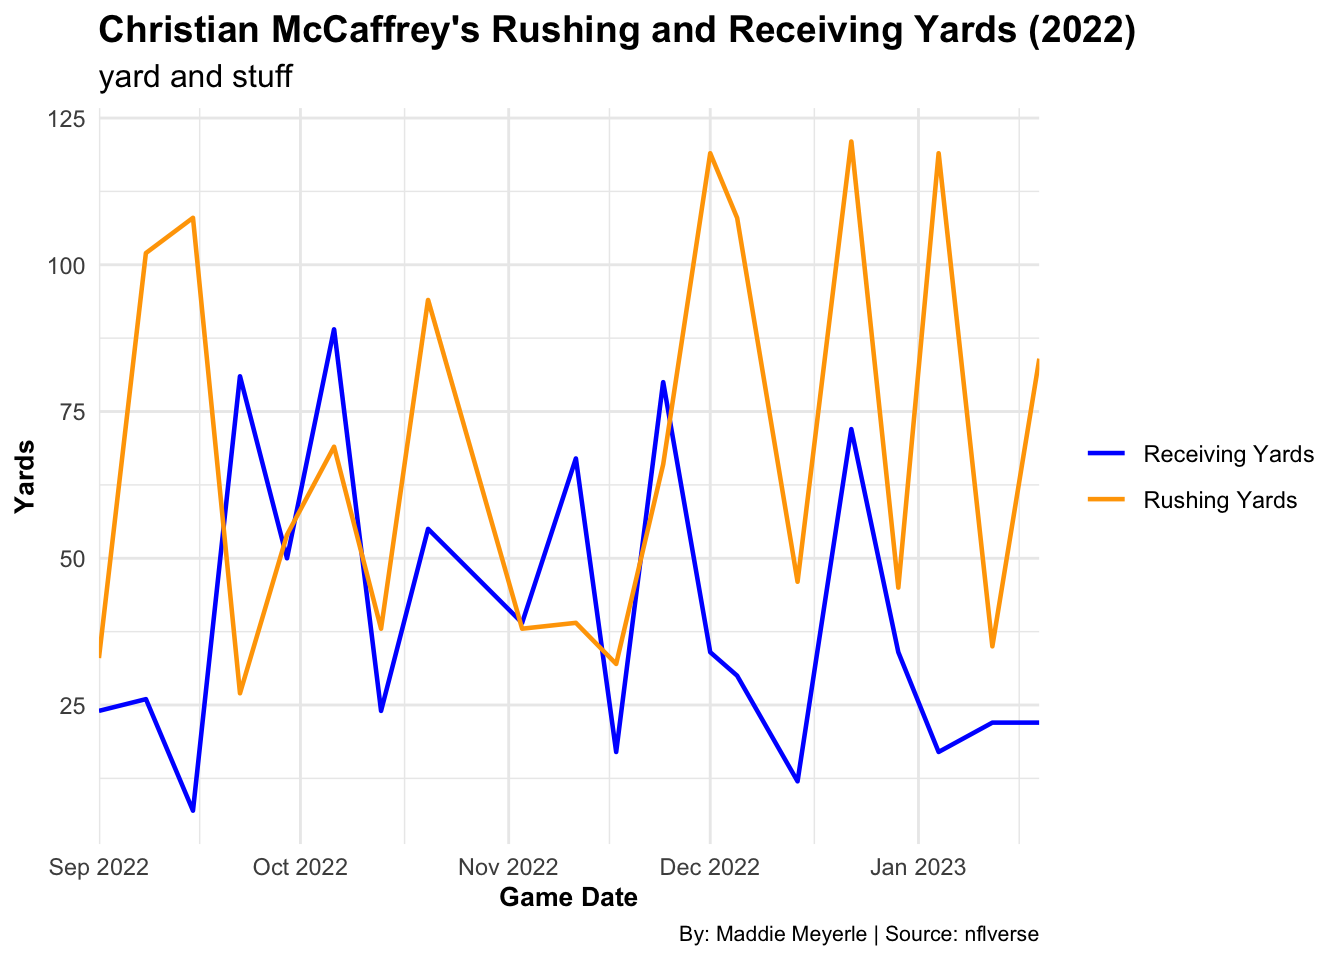
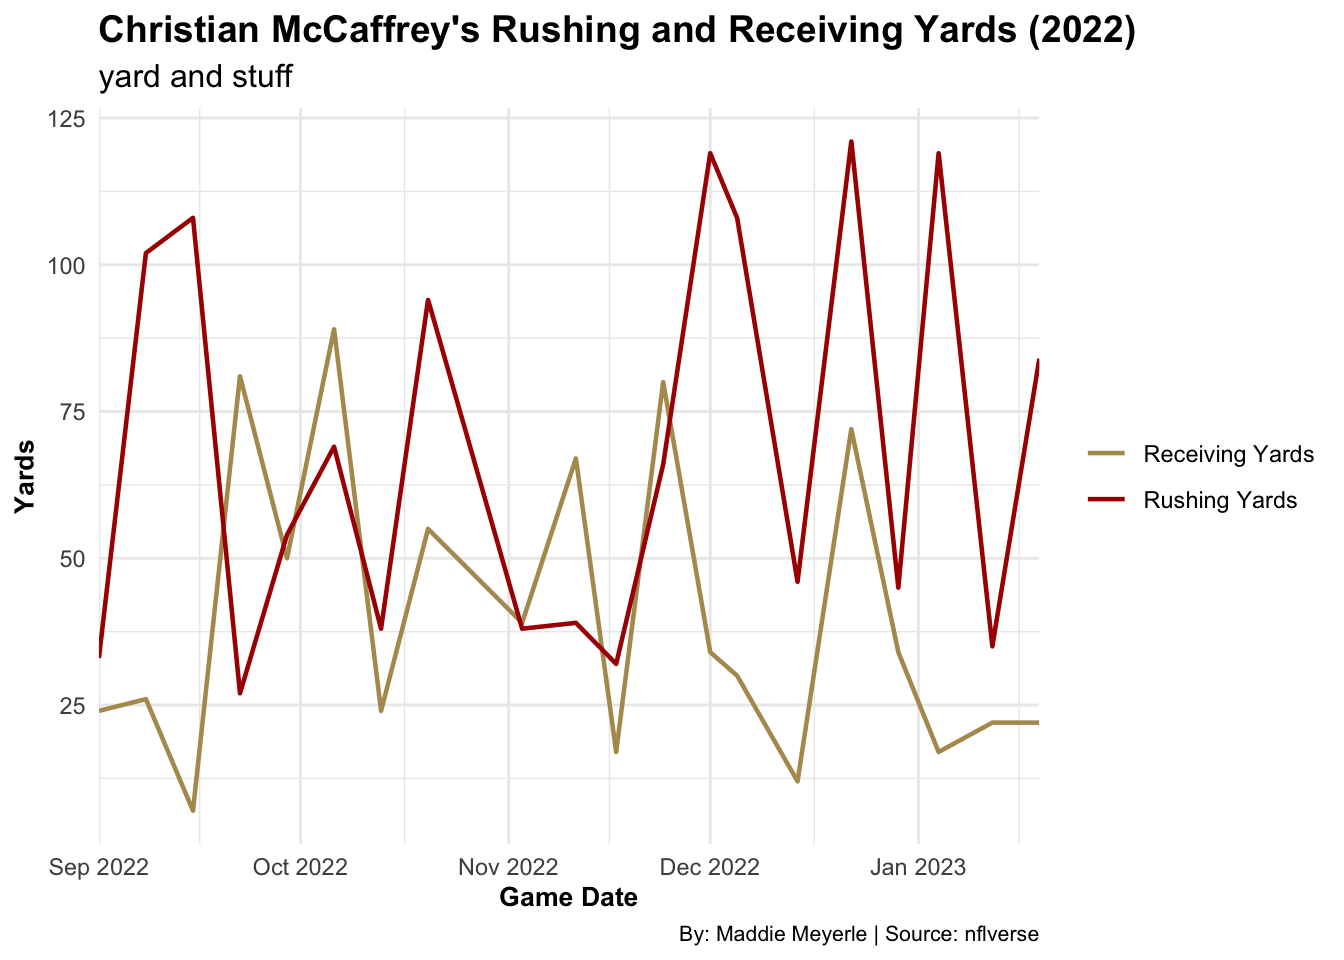
post

diff --git a/posts/christian-mccaffrey-analysis/index.html b/posts/christian-mccaffrey-analysis/index.html
@@ -255,7 +255,7 @@ Attaching package: 'dplyr'</code></pre>
 <span id="cb5-27"><a href="#cb5-27" aria-hidden="true" tabindex="-1"></a>    <span class="at">x =</span> <span class="st">"Game Date"</span>,</span>
 <span id="cb5-28"><a href="#cb5-28" aria-hidden="true" tabindex="-1"></a>    <span class="at">y =</span> <span class="st">"Yards"</span>,</span>
 <span id="cb5-29"><a href="#cb5-29" aria-hidden="true" tabindex="-1"></a>    <span class="at">color =</span> <span class="st">"Yard Type"</span>) <span class="sc">+</span></span>
-<span id="cb5-30"><a href="#cb5-30" aria-hidden="true" tabindex="-1"></a>  <span class="fu">scale_color_manual</span>(<span class="at">values =</span> <span class="fu">c</span>(<span class="st">"receiving_yards"</span> <span class="ot">=</span> <span class="st">"blue"</span>, <span class="st">"rushing_yards"</span> <span class="ot">=</span> <span class="st">"orange"</span>),</span>
+<span id="cb5-30"><a href="#cb5-30" aria-hidden="true" tabindex="-1"></a>  <span class="fu">scale_color_manual</span>(<span class="at">values =</span> <span class="fu">c</span>(<span class="st">"receiving_yards"</span> <span class="ot">=</span> <span class="st">"#B3995D"</span>, <span class="st">"rushing_yards"</span> <span class="ot">=</span> <span class="st">"#AA0000"</span>),</span>
 <span id="cb5-31"><a href="#cb5-31" aria-hidden="true" tabindex="-1"></a>                     <span class="at">labels =</span> <span class="fu">c</span>(<span class="st">"Receiving Yards"</span>, <span class="st">"Rushing Yards"</span>)) <span class="sc">+</span></span>
 <span id="cb5-32"><a href="#cb5-32" aria-hidden="true" tabindex="-1"></a>  <span class="fu">scale_x_date</span>(<span class="at">breaks =</span> date_seq, <span class="at">date_labels =</span> <span class="st">"%b %Y"</span>, <span class="at">expand =</span> <span class="fu">c</span>(<span class="dv">0</span>, <span class="dv">0</span>)) <span class="sc">+</span></span>
 <span id="cb5-33"><a href="#cb5-33" aria-hidden="true" tabindex="-1"></a>  <span class="fu">theme_minimal</span>() <span class="sc">+</span></span>
@@ -309,7 +309,7 @@ Attaching package: 'dplyr'</code></pre>
 <span id="cb7-23"><a href="#cb7-23" aria-hidden="true" tabindex="-1"></a>  <span class="fu">waffle</span>(</span>
 <span id="cb7-24"><a href="#cb7-24" aria-hidden="true" tabindex="-1"></a>    before <span class="sc">/</span> <span class="dv">25</span>, </span>
 <span id="cb7-25"><a href="#cb7-25" aria-hidden="true" tabindex="-1"></a>    <span class="at">rows =</span> <span class="dv">5</span>, </span>
-<span id="cb7-26"><a href="#cb7-26" aria-hidden="true" tabindex="-1"></a>    <span class="at">colors =</span> <span class="fu">c</span>(<span class="st">"red"</span>, <span class="st">"black"</span>)</span>
+<span id="cb7-26"><a href="#cb7-26" aria-hidden="true" tabindex="-1"></a>    <span class="at">colors =</span> <span class="fu">c</span>(<span class="st">"#AA0000"</span>, <span class="st">"black"</span>)</span>
 <span id="cb7-27"><a href="#cb7-27" aria-hidden="true" tabindex="-1"></a>  ) <span class="sc">+</span></span>
 <span id="cb7-28"><a href="#cb7-28" aria-hidden="true" tabindex="-1"></a>    <span class="fu">labs</span>(</span>
 <span id="cb7-29"><a href="#cb7-29" aria-hidden="true" tabindex="-1"></a>      <span class="at">title =</span> <span class="st">"Nebraska's offense is balanced"</span>,</span>
@@ -323,7 +323,7 @@ Attaching package: 'dplyr'</code></pre>
 <span id="cb7-37"><a href="#cb7-37" aria-hidden="true" tabindex="-1"></a>  <span class="fu">waffle</span>(</span>
 <span id="cb7-38"><a href="#cb7-38" aria-hidden="true" tabindex="-1"></a>    after <span class="sc">/</span> <span class="dv">25</span>, </span>
 <span id="cb7-39"><a href="#cb7-39" aria-hidden="true" tabindex="-1"></a>    <span class="at">rows =</span> <span class="dv">12</span>, </span>
-<span id="cb7-40"><a href="#cb7-40" aria-hidden="true" tabindex="-1"></a>    <span class="at">colors =</span> <span class="fu">c</span>(<span class="st">"#CFB991"</span>, <span class="st">"#000000"</span>, <span class="st">"white"</span>)</span>
+<span id="cb7-40"><a href="#cb7-40" aria-hidden="true" tabindex="-1"></a>    <span class="at">colors =</span> <span class="fu">c</span>(<span class="st">"#B3995D"</span>, <span class="st">"#000000"</span>, <span class="st">"white"</span>)</span>
 <span id="cb7-41"><a href="#cb7-41" aria-hidden="true" tabindex="-1"></a>  ) <span class="sc">+</span></span>
 <span id="cb7-42"><a href="#cb7-42" aria-hidden="true" tabindex="-1"></a>    <span class="fu">labs</span>(</span>
 <span id="cb7-43"><a href="#cb7-43" aria-hidden="true" tabindex="-1"></a>      <span class="at">x =</span> <span class="st">"1 square = 25 yards"</span>,</span>
@@ -339,7 +339,7 @@ Attaching package: 'dplyr'</code></pre>
 </div>
 </div>
 </div>
-<p>text</p>
+<p>text..</p>
 <div class="cell">
 <details class="code-fold">
 <summary>Code</summary>
@@ -416,7 +416,7 @@ Specify the column types or set `show_col_types = FALSE` to quiet this message.
 <span id="cb12-26"><a href="#cb12-26" aria-hidden="true" tabindex="-1"></a>    <span class="at">y =</span> <span class="st">"Yards"</span>,</span>
 <span id="cb12-27"><a href="#cb12-27" aria-hidden="true" tabindex="-1"></a>    <span class="at">fill =</span> <span class="st">"Yard Type"</span></span>
 <span id="cb12-28"><a href="#cb12-28" aria-hidden="true" tabindex="-1"></a>  ) <span class="sc">+</span></span>
-<span id="cb12-29"><a href="#cb12-29" aria-hidden="true" tabindex="-1"></a>  <span class="fu">scale_fill_manual</span>(<span class="at">values =</span> <span class="fu">c</span>(<span class="st">"RushYds"</span> <span class="ot">=</span> <span class="st">"orange"</span>, <span class="st">"RecYds"</span> <span class="ot">=</span> <span class="st">"blue"</span>),</span>
+<span id="cb12-29"><a href="#cb12-29" aria-hidden="true" tabindex="-1"></a>  <span class="fu">scale_fill_manual</span>(<span class="at">values =</span> <span class="fu">c</span>(<span class="st">"RushYds"</span> <span class="ot">=</span> <span class="st">"#AA0000"</span>, <span class="st">"RecYds"</span> <span class="ot">=</span> <span class="st">"#B3995D"</span>),</span>
 <span id="cb12-30"><a href="#cb12-30" aria-hidden="true" tabindex="-1"></a>                    <span class="at">labels =</span> <span class="fu">c</span>(<span class="st">"RushYds"</span> <span class="ot">=</span> <span class="st">"Rushing"</span>, <span class="st">"RecYds"</span> <span class="ot">=</span> <span class="st">"Receiving"</span>)) <span class="sc">+</span></span>
 <span id="cb12-31"><a href="#cb12-31" aria-hidden="true" tabindex="-1"></a>  <span class="fu">theme_minimal</span>() <span class="sc">+</span></span>
 <span id="cb12-32"><a href="#cb12-32" aria-hidden="true" tabindex="-1"></a>  <span class="fu">theme</span>(</span>
@@ -430,6 +430,86 @@ Specify the column types or set `show_col_types = FALSE` to quiet this message.
 <div>
 <figure class="figure">
 <p><img src="index_files/figure-html/unnamed-chunk-3-1.png" class="img-fluid figure-img" width="672"></p>
+</figure>
+</div>
+</div>
+</div>
+<div class="cell">
+<details class="code-fold">
+<summary>Code</summary>
+<div class="sourceCode cell-code" id="cb13"><pre class="sourceCode r code-with-copy"><code class="sourceCode r"><span id="cb13-1"><a href="#cb13-1" aria-hidden="true" tabindex="-1"></a>playoffs <span class="ot">&lt;-</span> </span>
+<span id="cb13-2"><a href="#cb13-2" aria-hidden="true" tabindex="-1"></a>  <span class="fu">read_csv</span>(<span class="st">"data/playoff2022.csv"</span>)</span></code><button title="Copy to Clipboard" class="code-copy-button"><i class="bi"></i></button></pre></div>
+</details>
+<div class="cell-output cell-output-stderr">
+<pre><code>New names:
+Rows: 12 Columns: 33
+── Column specification
+──────────────────────────────────────────────────────── Delimiter: "," chr
+(2): Player, Pos dbl (25): Rk, Age, G, GS, Att, RushYds, TD...9, 1D...10,
+Succ%...11, Lng...1... lgl (6): ...28, ...29, ...30, ...31, ...32, ...33
+ℹ Use `spec()` to retrieve the full column specification for this data. ℹ
+Specify the column types or set `show_col_types = FALSE` to quiet this message.
+• `TD` -&gt; `TD...9`
+• `1D` -&gt; `1D...10`
+• `Succ%` -&gt; `Succ%...11`
+• `Lng` -&gt; `Lng...12`
+• `Y/G` -&gt; `Y/G...14`
+• `TD` -&gt; `TD...20`
+• `1D` -&gt; `1D...21`
+• `Succ%` -&gt; `Succ%...22`
+• `Lng` -&gt; `Lng...23`
+• `Y/G` -&gt; `Y/G...25`
+• `` -&gt; `...28`
+• `` -&gt; `...29`
+• `` -&gt; `...30`
+• `` -&gt; `...31`
+• `` -&gt; `...32`
+• `` -&gt; `...33`</code></pre>
+</div>
+<details class="code-fold">
+<summary>Code</summary>
+<div class="sourceCode cell-code" id="cb15"><pre class="sourceCode r code-with-copy"><code class="sourceCode r"><span id="cb15-1"><a href="#cb15-1" aria-hidden="true" tabindex="-1"></a>players_of_interest <span class="ot">&lt;-</span> <span class="fu">c</span>(<span class="st">"Christian McCaffrey"</span>, <span class="st">"Elijah Mitchell"</span>, <span class="st">"Jordan Mason"</span>)</span>
+<span id="cb15-2"><a href="#cb15-2" aria-hidden="true" tabindex="-1"></a></span>
+<span id="cb15-3"><a href="#cb15-3" aria-hidden="true" tabindex="-1"></a>filtered_playoffs <span class="ot">&lt;-</span> playoffs <span class="sc">|&gt;</span></span>
+<span id="cb15-4"><a href="#cb15-4" aria-hidden="true" tabindex="-1"></a>  <span class="fu">filter</span>(Player <span class="sc">%in%</span> players_of_interest) <span class="sc">|&gt;</span></span>
+<span id="cb15-5"><a href="#cb15-5" aria-hidden="true" tabindex="-1"></a>  <span class="fu">select</span>(Player, RushYds, RecYds)</span>
+<span id="cb15-6"><a href="#cb15-6" aria-hidden="true" tabindex="-1"></a></span>
+<span id="cb15-7"><a href="#cb15-7" aria-hidden="true" tabindex="-1"></a>long_data <span class="ot">&lt;-</span> filtered_playoffs <span class="sc">|&gt;</span></span>
+<span id="cb15-8"><a href="#cb15-8" aria-hidden="true" tabindex="-1"></a>  <span class="fu">pivot_longer</span>(</span>
+<span id="cb15-9"><a href="#cb15-9" aria-hidden="true" tabindex="-1"></a>    <span class="at">cols =</span> <span class="fu">c</span>(<span class="st">"RushYds"</span>, <span class="st">"RecYds"</span>),</span>
+<span id="cb15-10"><a href="#cb15-10" aria-hidden="true" tabindex="-1"></a>    <span class="at">names_to =</span> <span class="st">"Yard_Type"</span>,</span>
+<span id="cb15-11"><a href="#cb15-11" aria-hidden="true" tabindex="-1"></a>    <span class="at">values_to =</span> <span class="st">"Yards"</span></span>
+<span id="cb15-12"><a href="#cb15-12" aria-hidden="true" tabindex="-1"></a>  )</span>
+<span id="cb15-13"><a href="#cb15-13" aria-hidden="true" tabindex="-1"></a></span>
+<span id="cb15-14"><a href="#cb15-14" aria-hidden="true" tabindex="-1"></a><span class="fu">ggplot</span>(long_data, <span class="fu">aes</span>(</span>
+<span id="cb15-15"><a href="#cb15-15" aria-hidden="true" tabindex="-1"></a>  <span class="at">x =</span> Player,</span>
+<span id="cb15-16"><a href="#cb15-16" aria-hidden="true" tabindex="-1"></a>  <span class="at">y =</span> Yards,</span>
+<span id="cb15-17"><a href="#cb15-17" aria-hidden="true" tabindex="-1"></a>  <span class="at">fill =</span> Yard_Type</span>
+<span id="cb15-18"><a href="#cb15-18" aria-hidden="true" tabindex="-1"></a>)) <span class="sc">+</span></span>
+<span id="cb15-19"><a href="#cb15-19" aria-hidden="true" tabindex="-1"></a>  <span class="fu">geom_bar</span>(<span class="at">stat =</span> <span class="st">"identity"</span>) <span class="sc">+</span></span>
+<span id="cb15-20"><a href="#cb15-20" aria-hidden="true" tabindex="-1"></a>  <span class="fu">coord_flip</span>() <span class="sc">+</span></span>
+<span id="cb15-21"><a href="#cb15-21" aria-hidden="true" tabindex="-1"></a>  <span class="fu">labs</span>(</span>
+<span id="cb15-22"><a href="#cb15-22" aria-hidden="true" tabindex="-1"></a>    <span class="at">title =</span> <span class="st">"Comparison of receiving and rushing"</span>,</span>
+<span id="cb15-23"><a href="#cb15-23" aria-hidden="true" tabindex="-1"></a>    <span class="at">subtitle =</span> <span class="st">"Christian McCaffrey stuff"</span>,</span>
+<span id="cb15-24"><a href="#cb15-24" aria-hidden="true" tabindex="-1"></a>    <span class="at">caption =</span> <span class="st">"Source: Sports-Reference | By: Maddie Meyerle"</span>,</span>
+<span id="cb15-25"><a href="#cb15-25" aria-hidden="true" tabindex="-1"></a>    <span class="at">x =</span> <span class="st">"Player"</span>,</span>
+<span id="cb15-26"><a href="#cb15-26" aria-hidden="true" tabindex="-1"></a>    <span class="at">y =</span> <span class="st">"Yards"</span>,</span>
+<span id="cb15-27"><a href="#cb15-27" aria-hidden="true" tabindex="-1"></a>    <span class="at">fill =</span> <span class="st">"Yard Type"</span></span>
+<span id="cb15-28"><a href="#cb15-28" aria-hidden="true" tabindex="-1"></a>  ) <span class="sc">+</span></span>
+<span id="cb15-29"><a href="#cb15-29" aria-hidden="true" tabindex="-1"></a>  <span class="fu">scale_fill_manual</span>(<span class="at">values =</span> <span class="fu">c</span>(<span class="st">"RushYds"</span> <span class="ot">=</span> <span class="st">"#AA0000"</span>, <span class="st">"RecYds"</span> <span class="ot">=</span> <span class="st">"#B3995D"</span>),</span>
+<span id="cb15-30"><a href="#cb15-30" aria-hidden="true" tabindex="-1"></a>                    <span class="at">labels =</span> <span class="fu">c</span>(<span class="st">"RushYds"</span> <span class="ot">=</span> <span class="st">"Rushing"</span>, <span class="st">"RecYds"</span> <span class="ot">=</span> <span class="st">"Receiving"</span>)) <span class="sc">+</span></span>
+<span id="cb15-31"><a href="#cb15-31" aria-hidden="true" tabindex="-1"></a>  <span class="fu">theme_minimal</span>() <span class="sc">+</span></span>
+<span id="cb15-32"><a href="#cb15-32" aria-hidden="true" tabindex="-1"></a>  <span class="fu">theme</span>(</span>
+<span id="cb15-33"><a href="#cb15-33" aria-hidden="true" tabindex="-1"></a>    <span class="at">plot.title =</span> <span class="fu">element_text</span>(<span class="at">face =</span> <span class="st">"bold"</span>, <span class="at">size =</span> <span class="dv">14</span>),</span>
+<span id="cb15-34"><a href="#cb15-34" aria-hidden="true" tabindex="-1"></a>    <span class="at">axis.title =</span> <span class="fu">element_text</span>(<span class="at">size =</span> <span class="dv">12</span>),</span>
+<span id="cb15-35"><a href="#cb15-35" aria-hidden="true" tabindex="-1"></a>    <span class="at">legend.title =</span> <span class="fu">element_blank</span>(),</span>
+<span id="cb15-36"><a href="#cb15-36" aria-hidden="true" tabindex="-1"></a>    <span class="at">axis.text =</span> <span class="fu">element_text</span>(<span class="at">size =</span> <span class="dv">10</span>)</span>
+<span id="cb15-37"><a href="#cb15-37" aria-hidden="true" tabindex="-1"></a>  )</span></code><button title="Copy to Clipboard" class="code-copy-button"><i class="bi"></i></button></pre></div>
+</details>
+<div class="cell-output-display">
+<div>
+<figure class="figure">
+<p><img src="index_files/figure-html/unnamed-chunk-4-1.png" class="img-fluid figure-img" width="672"></p>
 </figure>
 </div>
 </div>

diff --git a/index.html b/index.html
@@ -215,7 +215,7 @@ window.Quarto = {
 
 <div class="quarto-listing quarto-listing-container-default" id="listing-listing">
 <div class="list quarto-listing-default">
-<div class="quarto-post image-right" data-index="0" data-categories="bWNjYWZmcmV5LGFuYWx5c2lzLG5mbA==" data-listing-date-sort="1733378400000" data-listing-file-modified-sort="1733689730468" data-listing-date-modified-sort="NaN" data-listing-reading-time-sort="4" data-listing-word-count-sort="764">
+<div class="quarto-post image-right" data-index="0" data-categories="bWNjYWZmcmV5LGFuYWx5c2lzLG5mbA==" data-listing-date-sort="1733378400000" data-listing-file-modified-sort="1733709604073" data-listing-date-modified-sort="NaN" data-listing-reading-time-sort="5" data-listing-word-count-sort="965">
 <div class="thumbnail">
 <p><a href="./posts/christian-mccaffrey-analysis/index.html" class="no-external"></a></p><a href="./posts/christian-mccaffrey-analysis/index.html" class="no-external">
 <p><img loading="lazy" src="./posts/christian-mccaffrey-analysis/image.png" class="thumbnail-image"></p>
